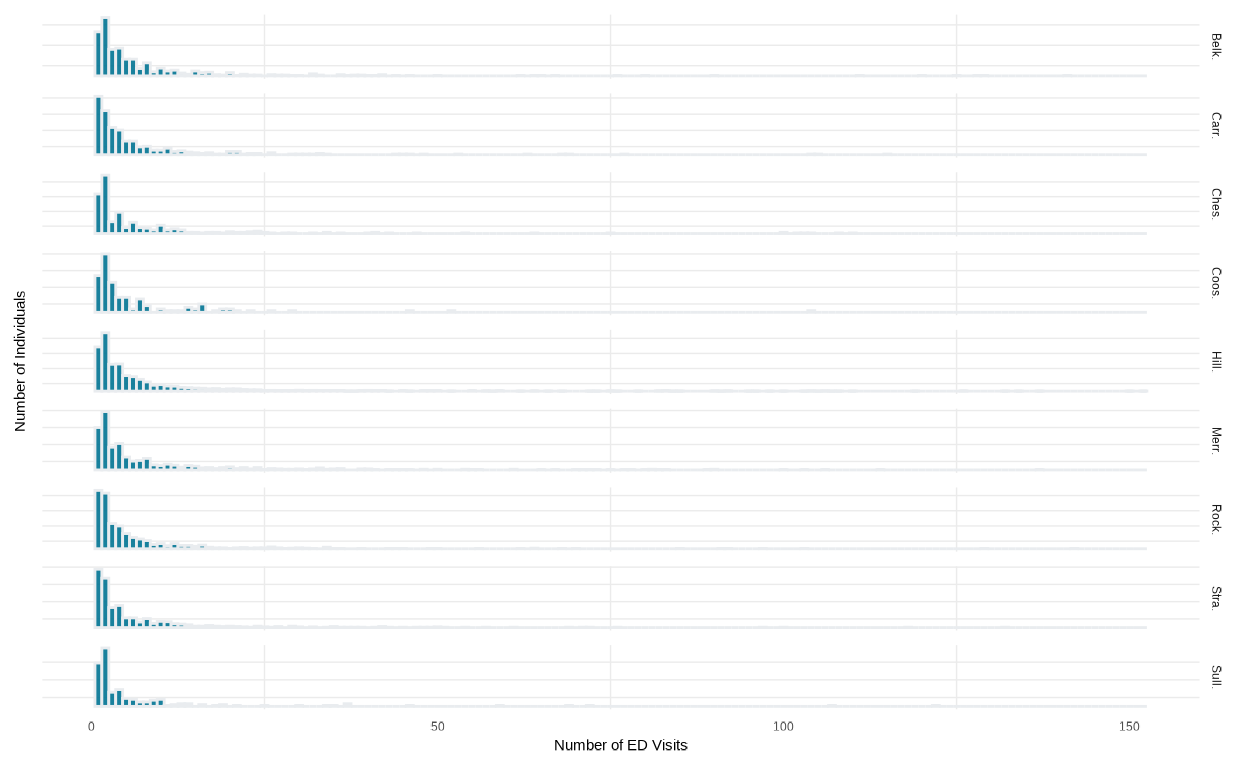
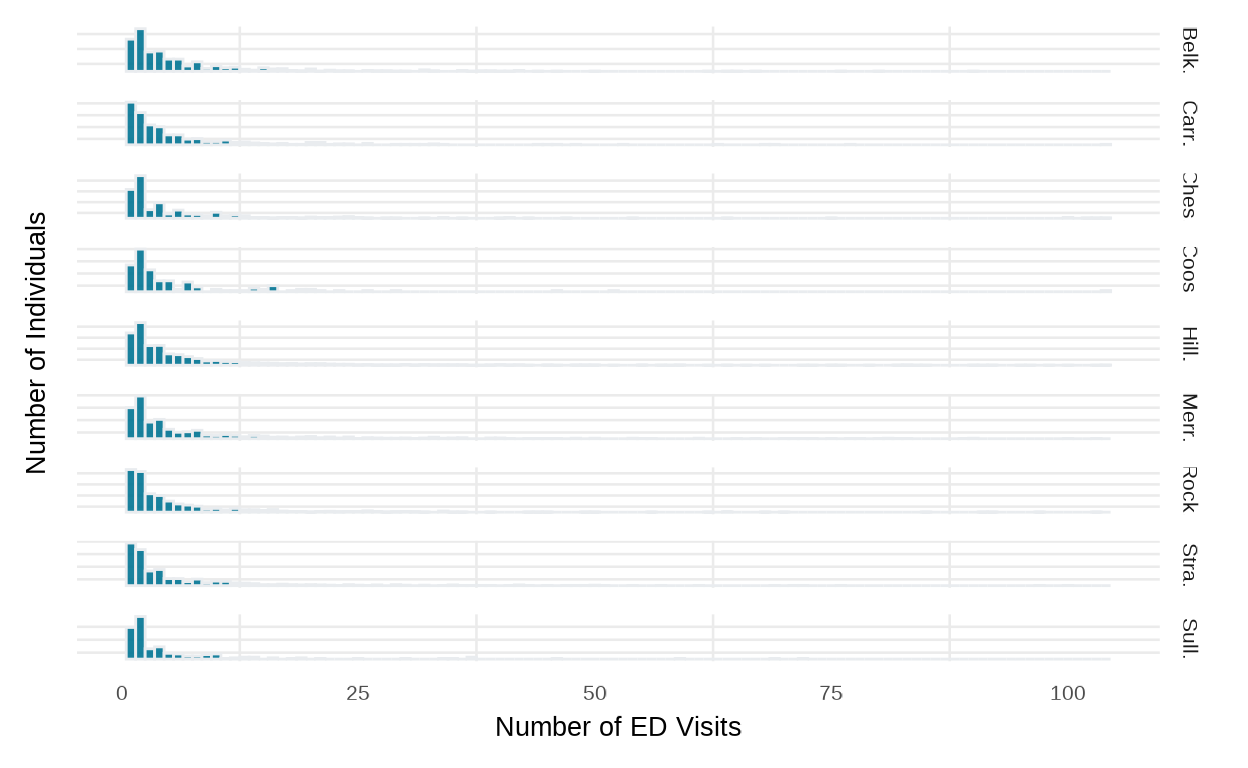
updated font size in outlier viz

diff --git a/_site/nh_medicaid_bh_encounters_hu_analysis.html b/_site/nh_medicaid_bh_encounters_hu_analysis.html
@@ -3538,10 +3538,11 @@ Statewide
 Medicaid data (e.g., 100+ ED visits). For ease of interpretation, I’ve
 removed all individuals with 0 ED Visits (the vast majority at 6,000+)
 as well as extreme outliers (150+ visits; there are about 20 individuals
-with more than 150 visits recorded, though some counts seem erroneously
-high) <strong>Update</strong>: I am currently using all behavioral
-health data from the Medicaid Encounter file that occurred either before
-or during the study period</p>
+with more than 105 visits recorded, though some counts seem erroneously
+high)</p>
+<p><strong>Update</strong>: I am currently using all behavioral health
+data from the Medicaid Encounter file that occurred either before or
+during the study period</p>
 <div class="layout-chunk" data-layout="l-body-outset">
 <p><img src="nh_medicaid_bh_encounters_hu_analysis_files/figure-html5/unnamed-chunk-8-1.png" width="624" /></p>
 </div>
@@ -3553,7 +3554,7 @@ id="visual-2-distribution-of-ed-visits-by-high-utilizer-grouping">Visual
 Medicaid data (e.g., 100+ ED visits). For ease of interpretation, I’ve
 removed all individuals with 0 ED Visits (the vast majority at 6,000+)
 as well as extreme outliers (150+ visits; there are about 20 individuals
-with more than 150 visits recorded, though some counts seem erroneously
+with more than 105 visits recorded, though some counts seem erroneously
 high)</p>
 <p><strong>Update</strong>: I am currently using all behavioral health
 data from the Medicaid Encounter file that occurred either before or
@@ -3568,7 +3569,7 @@ Distribution of ED Visits by County</h3>
 Medicaid data (e.g., 100+ ED visits). For ease of interpretation, I’ve
 removed all individuals with 0 ED Visits (the vast majority at 6,000+)
 as well as extreme outliers (150+ visits; there are about 20 individuals
-with more than 150 visits recorded, though some counts seem erroneously
+with more than 105 visits recorded, though some counts seem erroneously
 high)</p>
 <p><strong>Update</strong>: I am currently using all behavioral health
 data from the Medicaid Encounter file that occurred either before or
